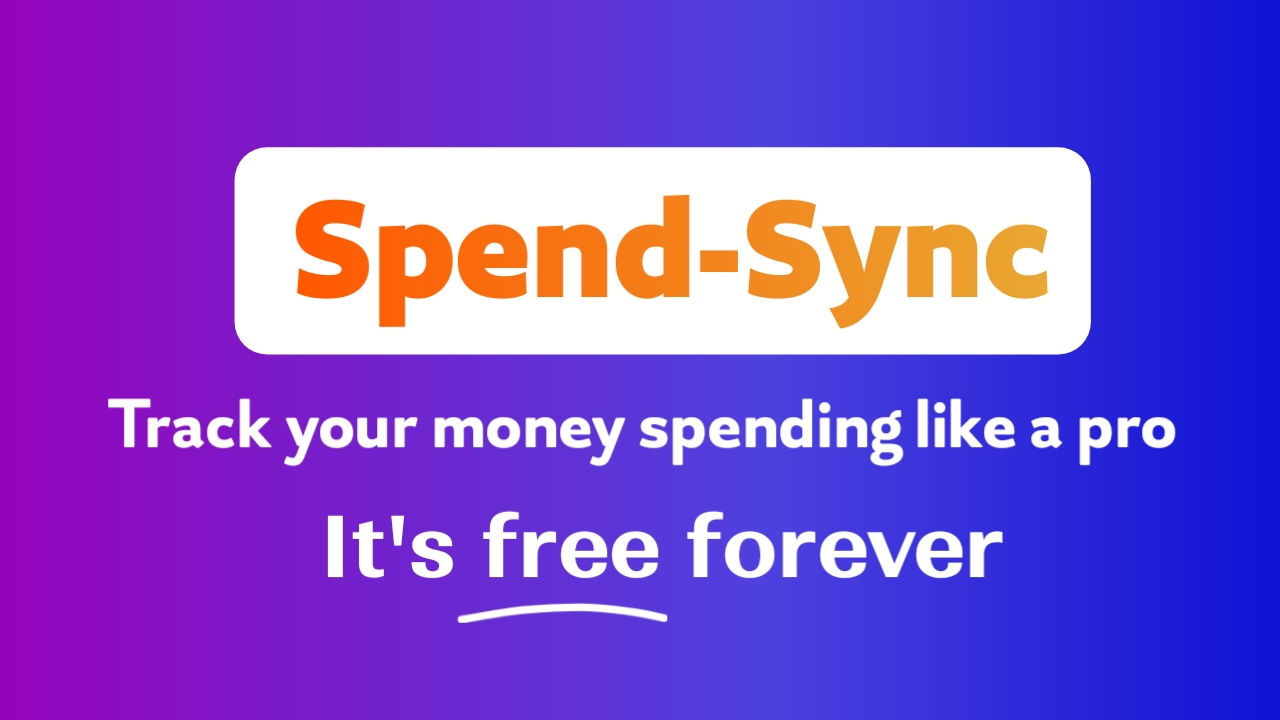
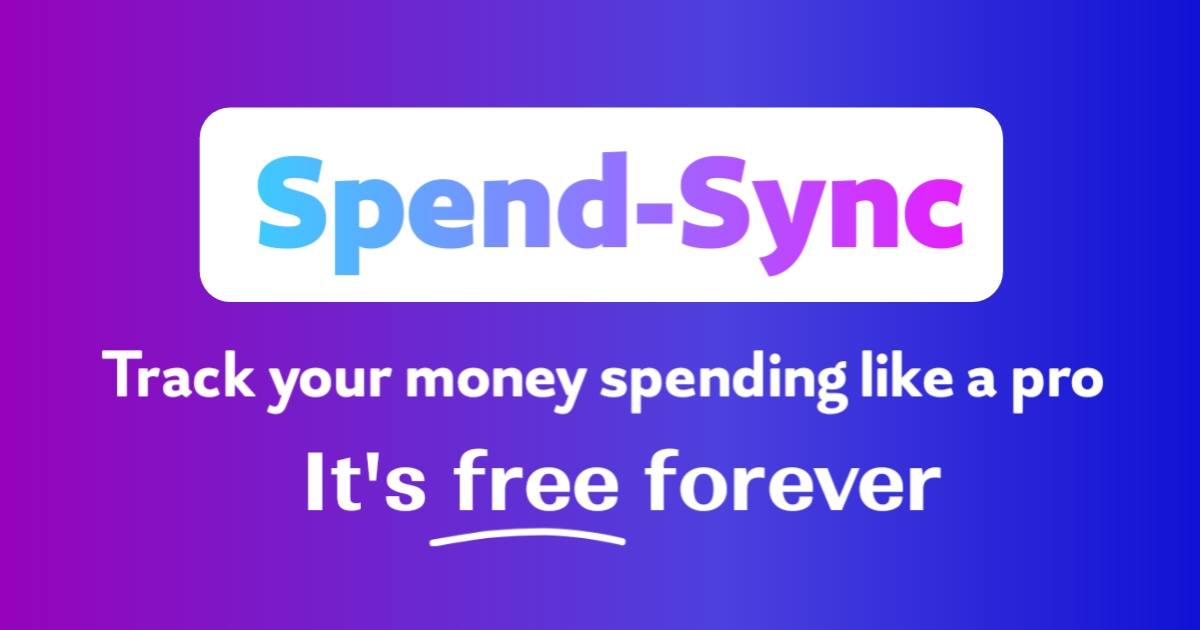
Changed OG IMAGE & updated dark  mode color

diff --git a/tailwind.config.js b/tailwind.config.js
@@ -16,8 +16,10 @@ export default {
           70: "#d6d6d6",
         },
         dark: {
-          primary: "#191a1b",
-          secondary: "#232425"
+          // primary: "#191a1b",
+          // secondary: "#232425"
+          primary: "#130f1d",
+          secondary: "#221d32"
         }
       }
     }
